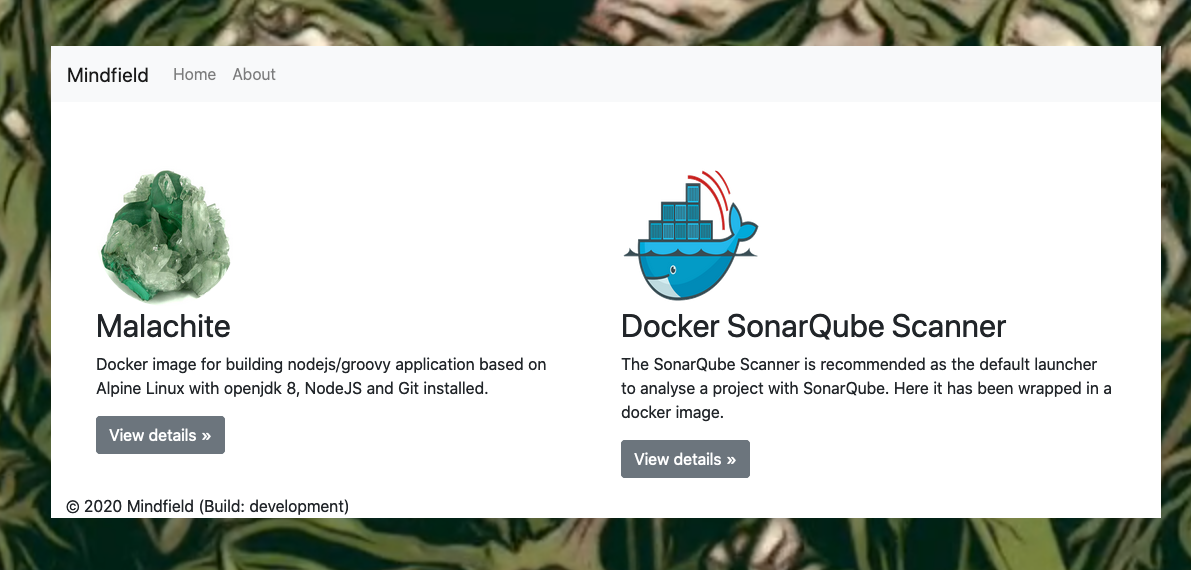
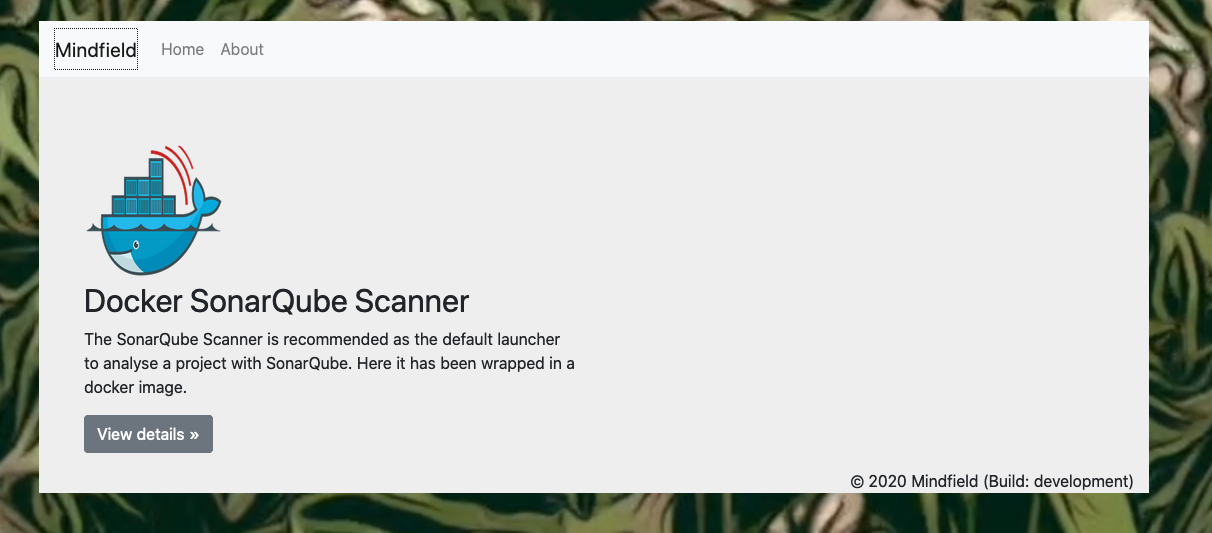
Cleanup

Changed region(s): [[0.0, 0.0, 1.0, 1.0], [0.5281, 0.3002, 0.8388, 0.6004]]

diff --git a/src/views/Home.vue b/src/views/Home.vue
@@ -7,28 +7,6 @@
             <div class="col-lg-6">
               <img
                 class="rounded-circle"
-                :src="require('../assets/malachite.jpg')"
-                alt="Malachite image"
-                width="140"
-                height="140"
-              />
-              <h2>Malachite</h2>
-              <p>
-                Docker image for building nodejs/groovy application based on
-                Alpine Linux with openjdk 8, NodeJS and Git installed.
-              </p>
-              <p>
-                <a
-                  class="btn btn-secondary"
-                  href="https://github.com/localgod/malachite"
-                  role="button"
-                  >View details &raquo;</a
-                >
-              </p>
-            </div>
-            <div class="col-lg-6">
-              <img
-                class="rounded-circle"
                 :src="require('../assets/docker-sonarqube.png')"
                 alt="Docker image"
                 width="140"

diff --git a/src/App.vue b/src/App.vue
@@ -4,7 +4,7 @@
     <navigation />
     <b-container class="main">
       <router-view />
-      <footer>
+      <footer class="footer mt-auto">
         <p>&copy; 2020 Mindfield (Build: {{ build }})</p>
       </footer>
     </b-container>
@@ -34,8 +34,16 @@ body {
   color: #5a5a5a;
 }
 
+.footer {
+  text-align: right;
+  margin:0 0;
+  padding:0 0;
+}
+
 .main {
-  background-color: #ffffff;
+  margin:0 0;
+  padding:0 0;
+  background-color: #eeeeee;
 }
 
 .marketing {

diff --git a/vue.config.js b/vue.config.js
@@ -3,5 +3,13 @@ module.exports = {
     public: "127.0.0.1:80",
     disableHostCheck: true,
     port: 80
+  },
+  chainWebpack: config => {
+    config
+      .plugin('html')
+      .tap(args => {
+        args[0].title = "Mindfield";
+        return args;
+      })
   }
 };

diff --git a/src/views/About.vue b/src/views/About.vue
@@ -2,7 +2,7 @@
   <b-container>
     <b-row>
       <b-col>
-        <h1>Comming</h1>
+        <h1>Coming</h1>
       </b-col>
     </b-row>
   </b-container>
